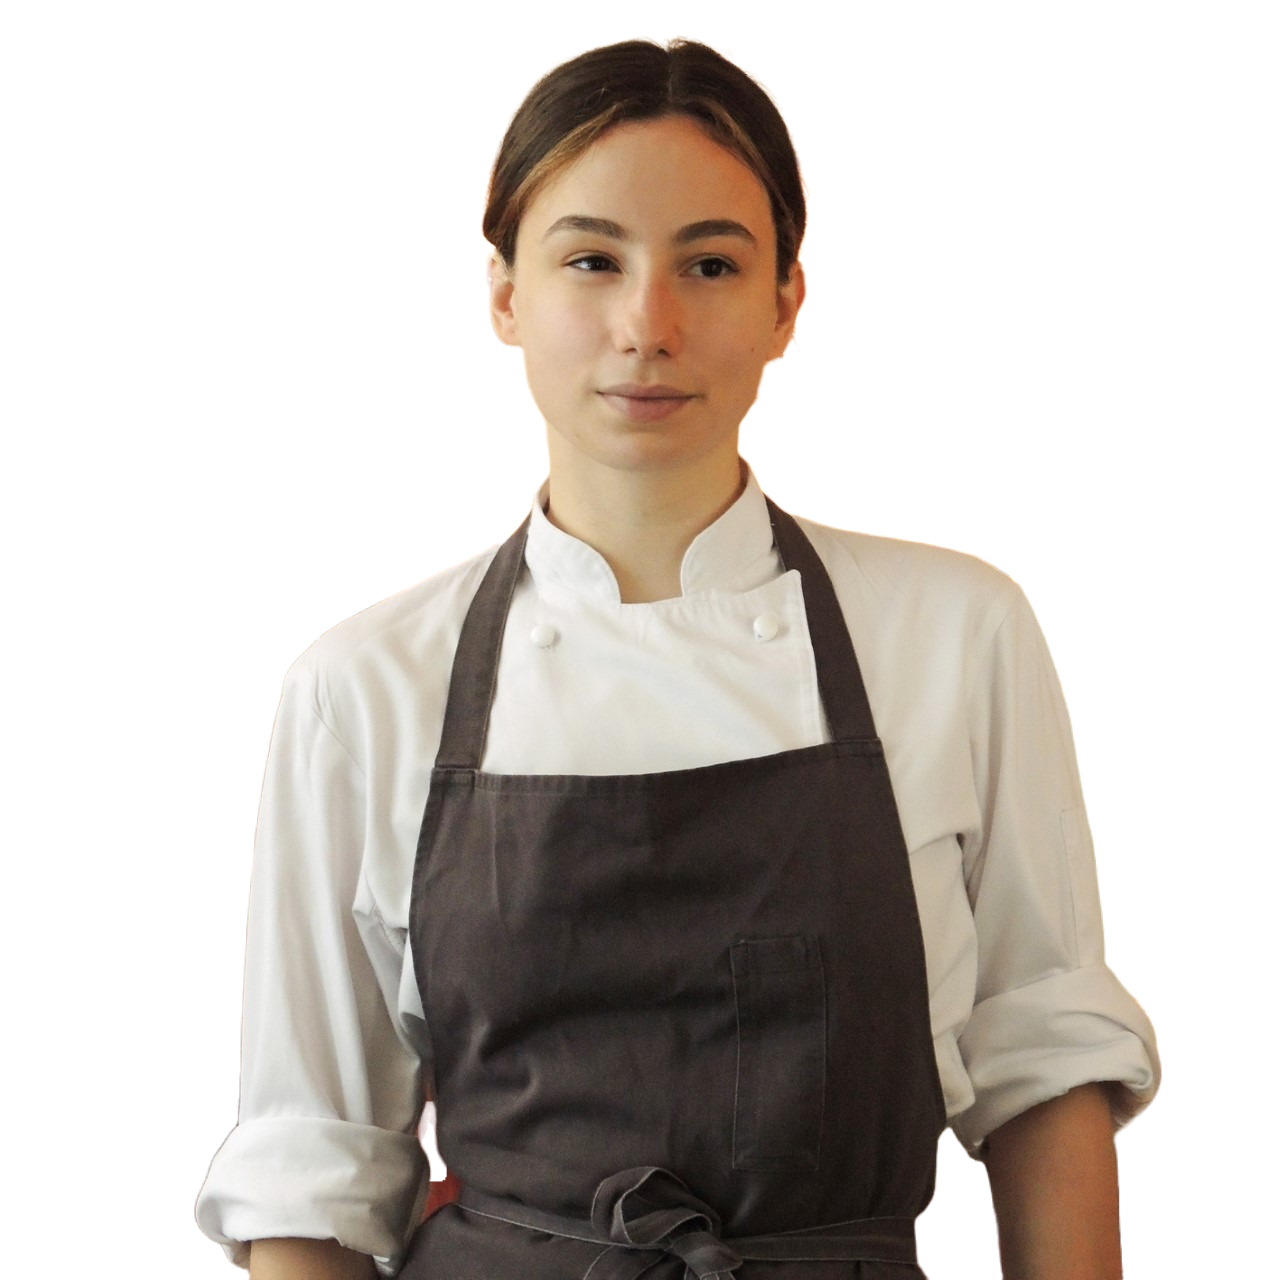
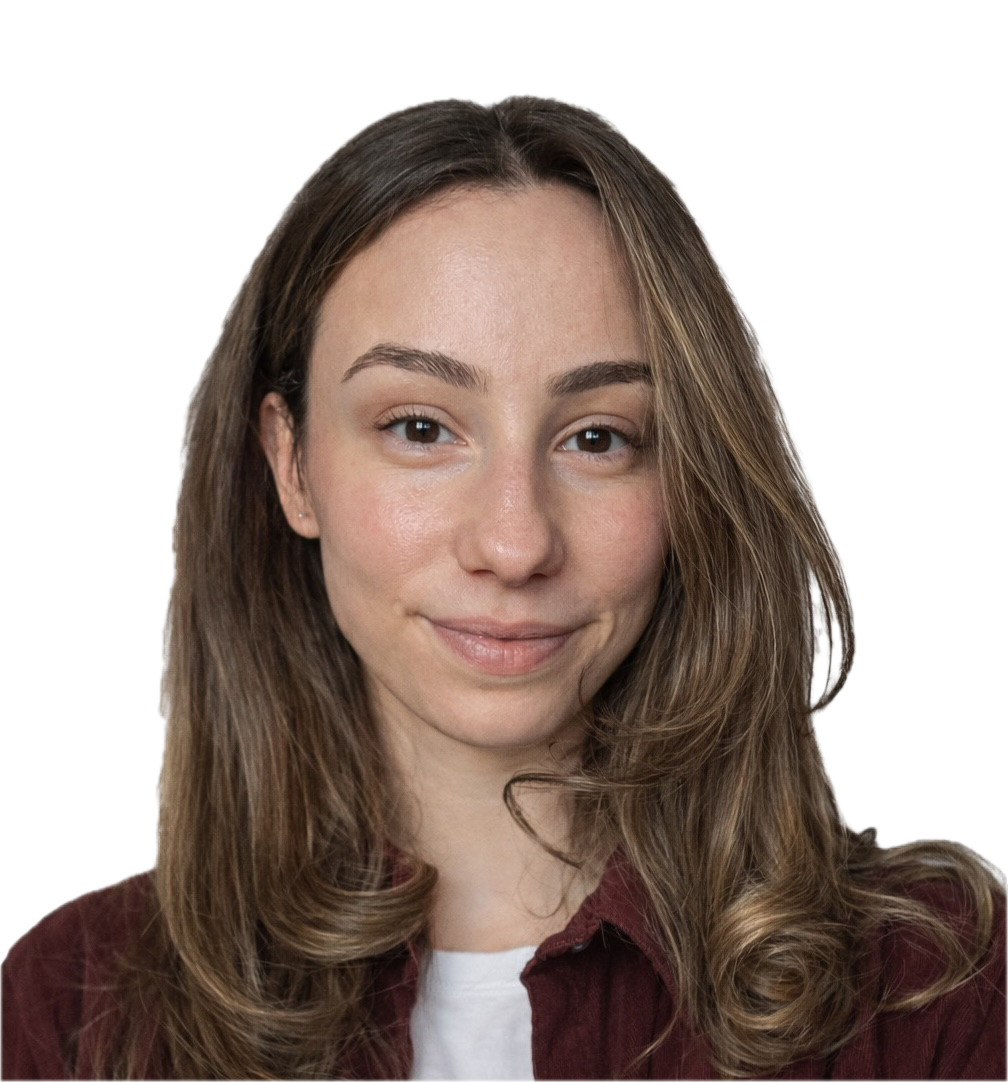
Adjusting color scheme, removing header picture

diff --git a/src/components/header/Header.jsx b/src/components/header/Header.jsx
@@ -1,7 +1,7 @@
 import React from 'react'
 import './header.css'
 import CTA from './CTA'
-import ME from '../../assets/mee.WebP'
+// import ME from '../../assets/mee.WebP'
 import HeaderSocial from './HeaderSocials'
 
 const Header = () => {
@@ -10,16 +10,16 @@ const Header = () => {
       <div className="container header__container">
         <h5>Hello I'm</h5>
         <h1>Angela Pace</h1>
-        <h5 className="text-light">Senior Operations Engineer</h5>
+        <h5 className="text-light">Project Manager</h5>
         <CTA />
-        <HeaderSocial />
+        {/* <HeaderSocial /> */}
 
-        <div className="me">
+        {/* <div className="me">
           <img src={ME} alt="me" />
           
-        </div>
+        </div> */}
 
-        <a href="#contact" className='scroll__down'>Scroll Down</a>
+        {/* <a href="#contact" className='scroll__down'>Scroll Down</a> */}
       </div>
     </header>
   )

diff --git a/src/index.css b/src/index.css
@@ -11,11 +11,11 @@
 }
 
 :root {
-  --color-bg:  #fbf8e4;
-  --color-bg-variant: #cff19180;
-  --color-primary:#6eb14def;
+  --color-bg:  #f1faee;
+  --color-bg-variant: #a8dadc;
+  --color-primary:#1d3557;
   --color-primary-variant:  #e91080;
-  --color-white: #1b611e;
+  --color-white: #457b9d;
   --color-light:  #98084e;
 
   --transition: all 400ms ease;

diff --git a/src/components/footer/Footer.jsx b/src/components/footer/Footer.jsx
@@ -25,9 +25,9 @@ const Footer = () => {
         <a href="https://www.kitchenandcode.com/"><BsFillPenFill/></a>
       </div>
 
-      <div className="footer__copyright">
+      {/* <div className="footer__copyright">
         <small>&copy; Angela Pace.</small>
-      </div>
+      </div> */}
     </footer>
   )
 }

diff --git a/src/components/about/About.jsx b/src/components/about/About.jsx
@@ -5,6 +5,7 @@ import {FaAward} from 'react-icons/fa'
 import {FiUsers} from 'react-icons/fi'
 import {VscFolderLibrary} from 'react-icons/vsc'
 
+
 const About = () => {
   return (
     <section id='about'>

diff --git a/src/components/about/about.css b/src/components/about/about.css
@@ -21,7 +21,7 @@
 .about__me-image {
   border-radius: 2rem;
   overflow: hidden;
-  transform: rotate(5deg);
+  /* transform: rotate(5deg); */
   transition: var(--transition);
 }
 

diff --git a/src/components/header/header.css b/src/components/header/header.css
@@ -1,5 +1,5 @@
 header {
-  height: 100vh;
+  /* height: 100vh; */
   padding-top: 7rem;
   overflow: hidden;
 }
